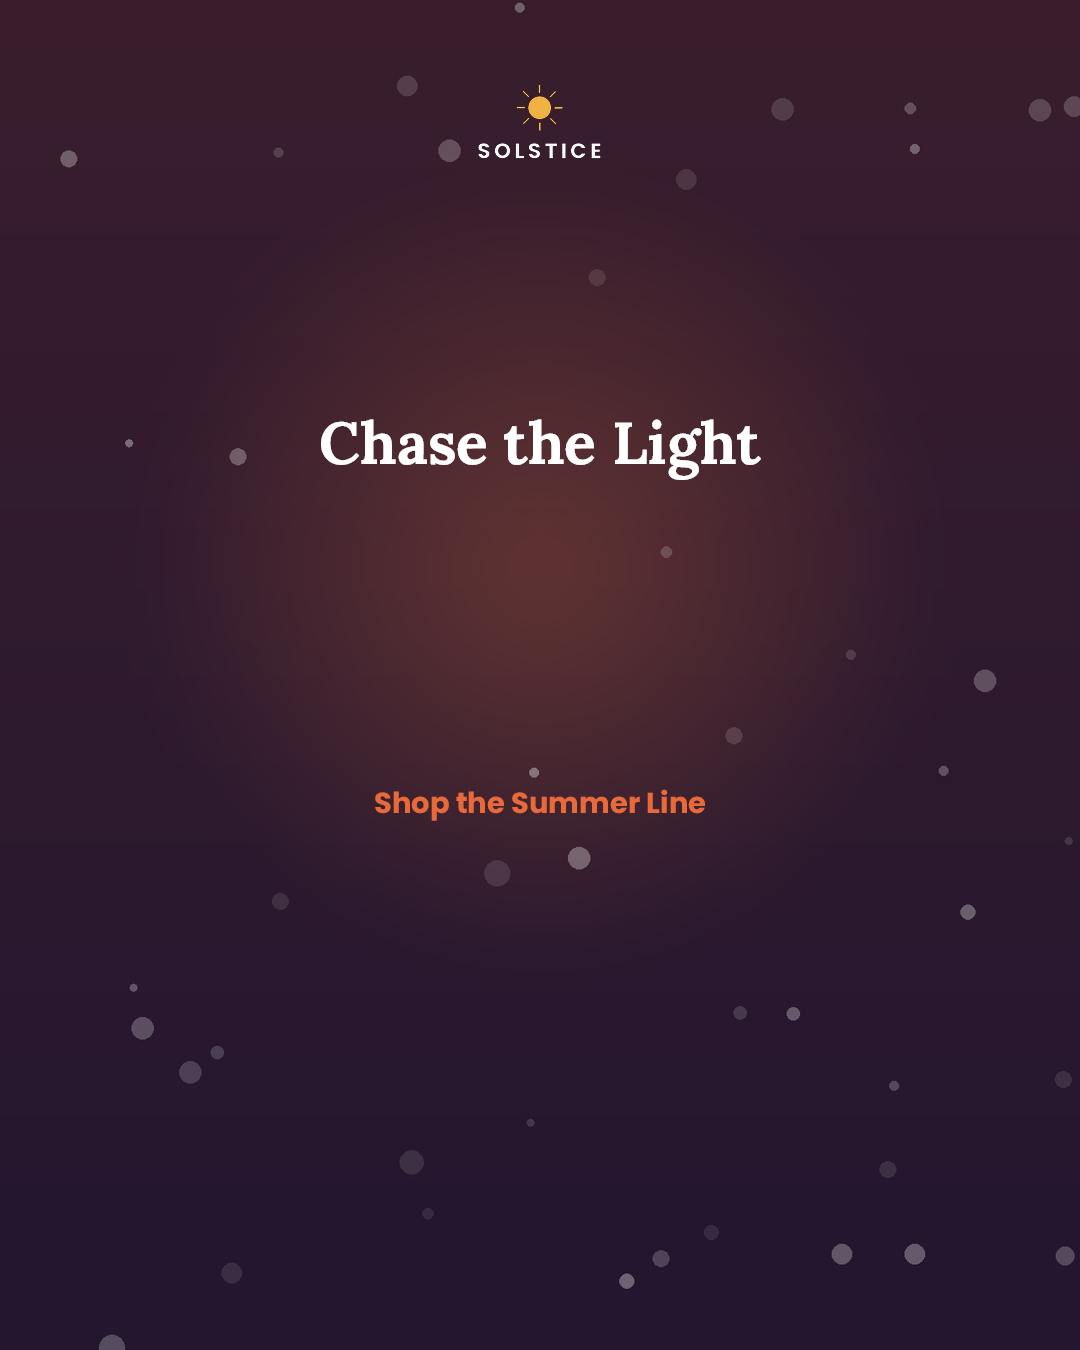
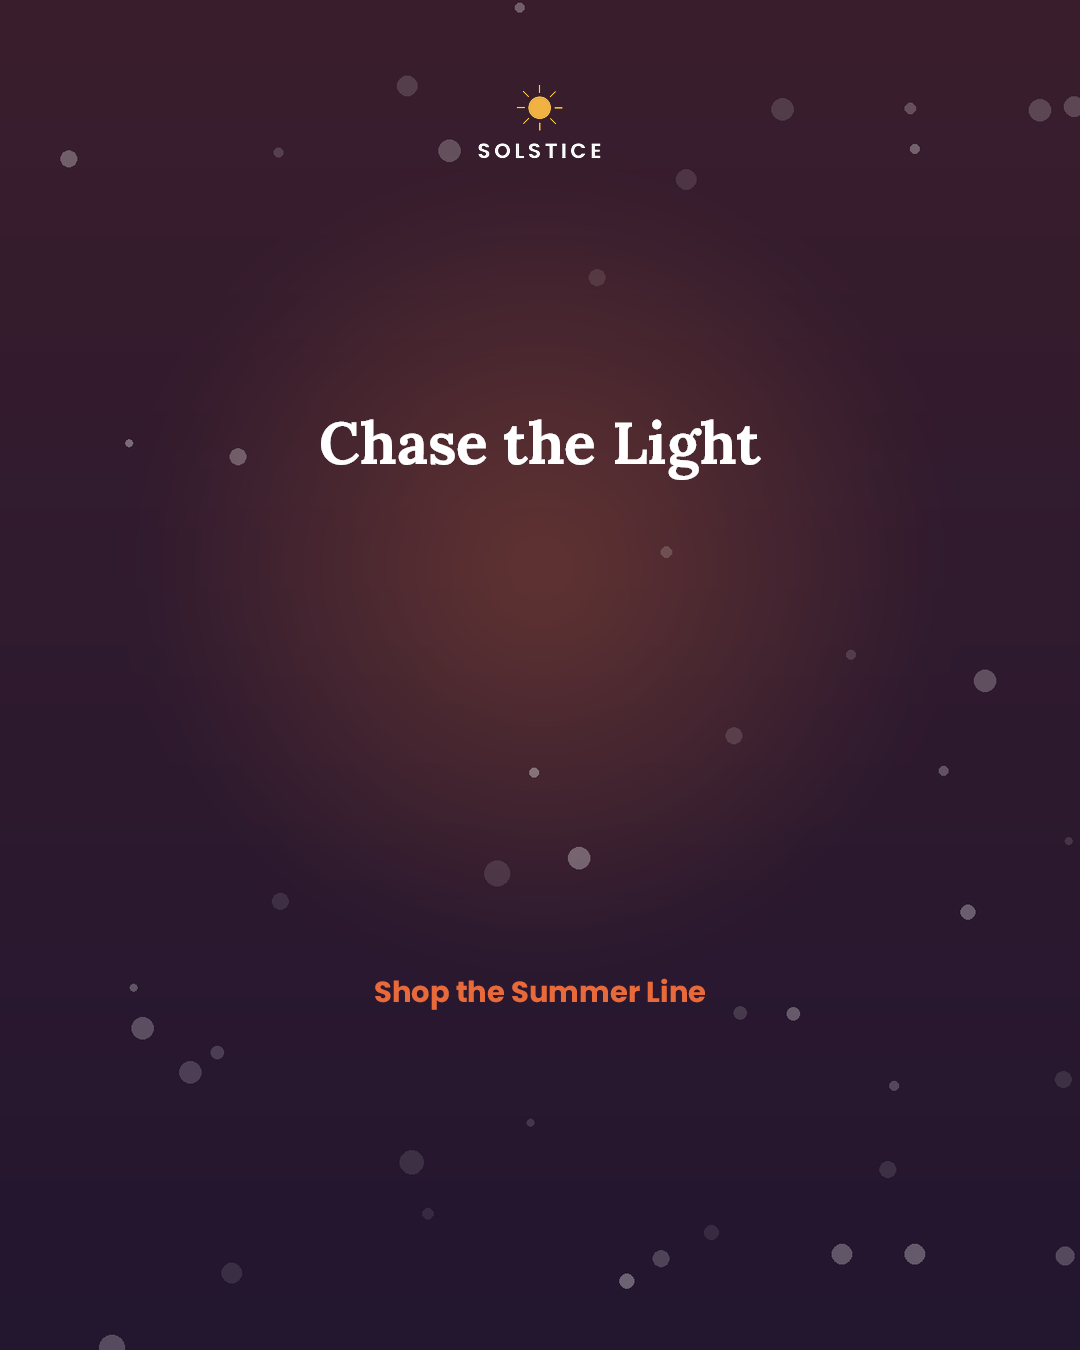
improve sparse portrait vertical rhythm

Changed region(s): [[0.3361, 0.7156, 0.6722, 0.7467], [0.3361, 0.5911, 0.6722, 0.6222]]

diff --git a/engine/chameleon/planner.py b/engine/chameleon/planner.py
@@ -427,10 +427,11 @@ def _layout(dna: DesignDNA, family: str, variant: int = 0) -> dict[str, Any]:
             cell = min(cw * 0.24, (cw - 2 * mx - gap * (len(badge_groups) - 1)) / len(badge_groups))
             for i, gid in enumerate(badge_groups):
                 _apply_rect(dna, by_id, dna.groups[gid][0], (mx + i * (cell + gap), ch * 0.74, cell, ch * 0.10), assigned)
+        action_y = 0.82 if heroes or bodies or subs else 0.72
         for i, gid in enumerate(cta_groups):
-            _apply_rect(dna, by_id, dna.groups[gid][0], (cw * 0.34, ch * (0.82 if heroes or bodies or subs else 0.58), cw * 0.32, ch * 0.10), assigned)
+            _apply_rect(dna, by_id, dna.groups[gid][0], (cw * 0.34, ch * action_y, cw * 0.32, ch * 0.10), assigned)
         for f in standalone_ctas:
-            _apply_rect(dna, by_id, f.id, (cw * 0.30, ch * (0.82 if heroes or bodies or subs else 0.58), cw * 0.40, ch * 0.10), assigned)
+            _apply_rect(dna, by_id, f.id, (cw * 0.30, ch * action_y, cw * 0.40, ch * 0.10), assigned)
         for f in legals:
             _apply_rect(dna, by_id, f.id, (mx, ch * 0.93, cw - 2 * mx, ch * 0.05), assigned)
 

diff --git a/tests/test_engine.py b/tests/test_engine.py
@@ -143,6 +143,15 @@ class EngineContractTests(unittest.TestCase):
         self.assertGreaterEqual(product["width"] * product["height"] / (target["width"] * target["height"]), 0.055)
         self.assertEqual(get_last_diagnostics()["issues"], [])
 
+    def test_sparse_portrait_stack_uses_lower_action_band(self):
+        task = next(task for task in _official_tasks() if task["difficulty"] == "level_1_warmup")
+        output = resize(task["source"], task["target_canvas"])
+        cta = next(element for element in output["elements"] if element["id"] == "cta")
+        center_y = (cta["y"] + cta["height"] / 2) / task["target_canvas"]["height"]
+        self.assertGreaterEqual(center_y, 0.70)
+        self.assertLess(center_y, 0.86)
+        self.assertEqual(get_last_diagnostics()["issues"], [])
+
     def test_semantics_detect_background_and_group_pair(self):
         source = _official_tasks()[1]["source"]
         dna = analyze_design(source, {"width": 1600, "height": 400})

diff --git a/evidence/benchmark/report.md b/evidence/benchmark/report.md
@@ -11,7 +11,7 @@ This score is an internal proxy, not Adobe's hidden evaluator.
 - Text-clipping cases: 0
 - Collision-free rate: 100.0%
 - Determinism rate: 100.0%
-- Stress runtime median / p95: 0.2520s / 1.2900s
+- Stress runtime median / p95: 0.1328s / 0.8140s
 
 - Mutation structural validity: 100.0%
 - Mutation off-canvas cases: 0
